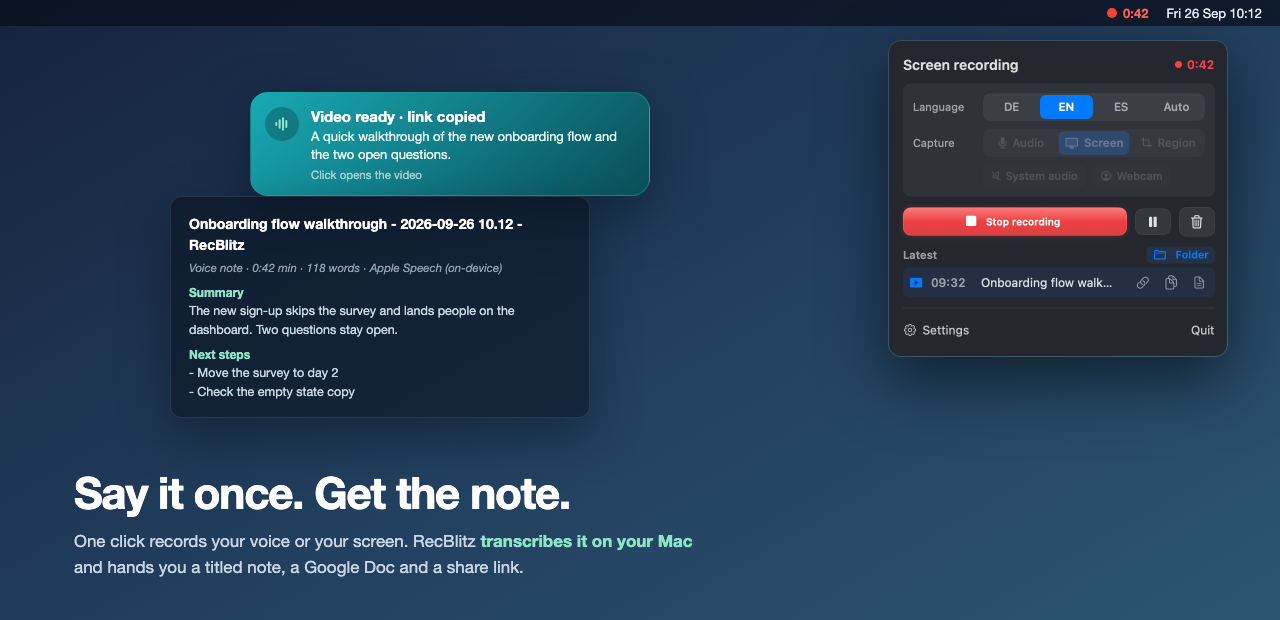
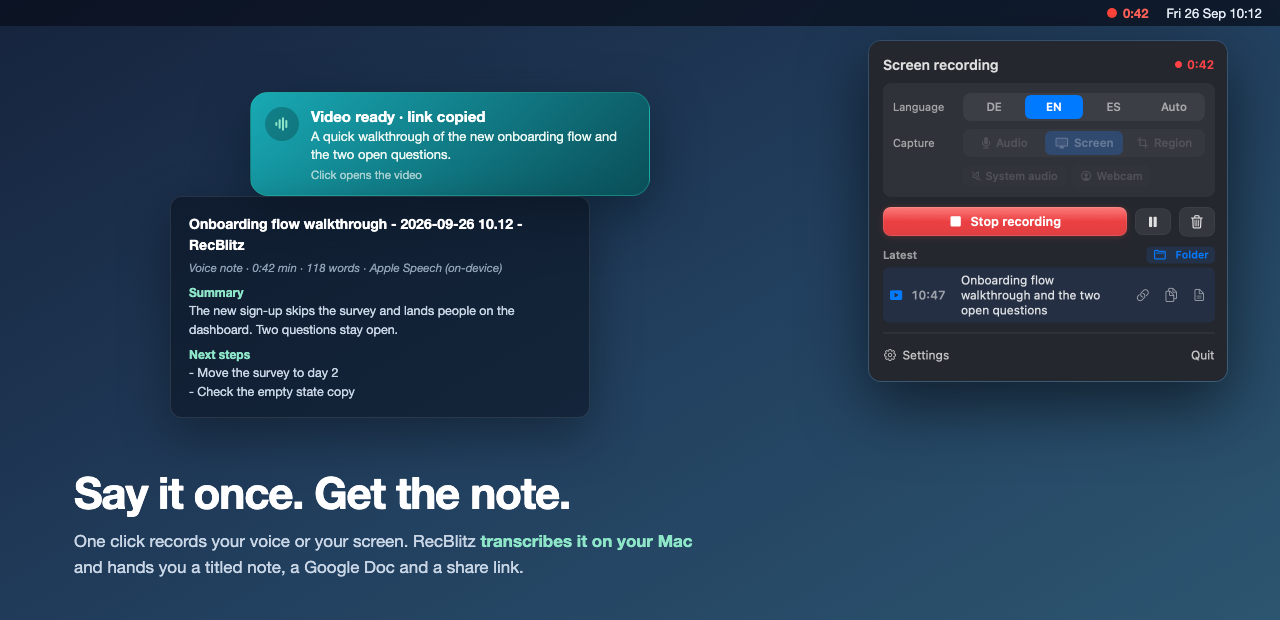
Panel 360 pt wide, no truncated labels or titles

Changed region(s): [[0.6562, 0.0613, 0.9688, 0.6435], [0.8125, 0.2145, 0.9062, 0.2452], [0.9062, 0.1532, 0.9375, 0.1839]]

diff --git a/Sources/RecBlitz/RecPanelView.swift b/Sources/RecBlitz/RecPanelView.swift
@@ -12,7 +12,7 @@ struct RecPanelView: View {
     @State private var displays: [CaptureDisplay] = []
     var onSize: (CGSize) -> Void
 
-    static let width: CGFloat = 340
+    static let width: CGFloat = 360
 
     /// Während Vorbereitung oder Aufnahme sind die Optionen gesperrt: ein
     /// Wechsel mitten in der Aufnahme hätte keine Wirkung mehr.
@@ -334,7 +334,7 @@ struct RecPanelView: View {
 /// Die letzte Aufnahme als Zeile, gebaut wie eine MeetingBlitz-Terminzeile:
 /// Symbol, Uhrzeit, Titel, rechts die Aktionen. Klick auf die Zeile öffnet das
 /// beste vorhandene Ergebnis (Video, Doc, Notiz).
-private struct LastRow: View {
+struct LastRow: View {
     let result: LastResult
     let transcript: String?
     @State private var hovering = false
@@ -344,6 +344,11 @@ private struct LastRow: View {
         f.locale = Locale(identifier: L.isDE ? "de_DE" : "en_US")
         f.dateFormat = Calendar.current.isDateInToday(result.date) ? "HH:mm" : (L.isDE ? "dd.MM." : "MMM d")
         return f.string(from: result.date)
+    }
+
+    static func displayTitle(_ raw: String) -> String {
+        raw.replacingOccurrences(of: #" - \d{4}-\d{2}-\d{2} \d{2}\.\d{2} - RecBlitz$"#,
+                                 with: "", options: .regularExpression)
     }
 
     private var markdownURL: URL? { result.markdownPath.map { URL(fileURLWithPath: $0) } }
@@ -360,10 +365,12 @@ private struct LastRow: View {
                 .font(.system(size: 12, weight: .medium).monospacedDigit())
                 .foregroundStyle(.secondary)
                 .frame(width: 42, alignment: .leading)
-            Text(result.title)
+            // Ohne den Anhang „ - 2026-09-26 10.29 - RecBlitz": die Uhrzeit steht
+            // schon links, und der Anhang frisst genau den Platz, der dem Titel
+            // fehlt. Zwei Zeilen statt „…" (Rückmeldung 26.09.).
+            Text(Self.displayTitle(result.title))
                 .font(.system(size: 12))
-                .lineLimit(1)
-                .truncationMode(.tail)
+                .fixedSize(horizontal: false, vertical: true)
             Spacer(minLength: 4)
             if let video = result.videoURL {
                 RowIconButton(icon: "link", help: video.isFileURL

diff --git a/Sources/RecBlitz/main.swift b/Sources/RecBlitz/main.swift
@@ -933,7 +933,8 @@ if cliArgs.count >= 3, cliArgs[1] == "--render-panel" {
         dummy.last = nil
         dummy.lastTranscript = nil
         if mode != "empty" {
-            dummy.last = LastResult(title: L.t("Ablauf für das neue Onboarding", "Onboarding flow walkthrough"),
+            dummy.last = LastResult(title: L.t("Ablauf für das neue Onboarding und die zwei offenen Fragen - 2026-09-26 10.29 - RecBlitz",
+                                                 "Onboarding flow walkthrough and the two open questions - 2026-09-26 10.29 - RecBlitz"),
                                     date: Date(), docURL: URL(string: "https://example.com/doc"),
                                     videoURL: mode == "idle" ? nil : URL(string: "https://example.com/video"),
                                     markdownPath: nil)
@@ -960,6 +961,8 @@ if cliArgs.count >= 2, cliArgs[1] == "--selftest" {
            "folderID aus Drive-Link")
     expect(ConfigStore.folderID(from: "  1AbC-d_E9 ") == "1AbC-d_E9", "folderID aus nackter ID")
     expect(ConfigStore.folderID(from: "") == "", "folderID leer")
+    expect(LastRow.displayTitle("Plan fürs Onboarding - 2026-09-26 10.29 - RecBlitz") == "Plan fürs Onboarding",
+           "Titel ohne Datumsanhang")
     let sample = LastResult(title: "T", date: Date(timeIntervalSince1970: 0),
                             docURL: URL(string: "https://example.com"), videoURL: nil, markdownPath: "/tmp/x.md")
     let roundTrip = (try? JSONEncoder().encode(sample)).flatMap { try? JSONDecoder().decode(LastResult.self, from: $0) }

diff --git a/docs/panel.html b/docs/panel.html
@@ -3,13 +3,13 @@
 <style>
   /* Nahaufnahme: das echte Panel im Ruhezustand und beim Hochladen. */
   * { margin:0; padding:0; box-sizing:border-box; }
-  body { width:900px; height:520px; display:flex; align-items:flex-start; justify-content:center; gap:40px; padding-top:56px;
+  body { width:900px; height:580px; display:flex; align-items:flex-start; justify-content:center; gap:40px; padding-top:56px;
     background: linear-gradient(150deg,#16233d 0%,#22405f 55%,#2c5570 100%);
     font: 400 13px -apple-system,"SF Pro Text",sans-serif; color:#c9d6e6; }
   figure { display:flex; flex-direction:column; align-items:center; gap:14px; }
-  .p { width:340px; border-radius:13px; overflow:hidden; border:.5px solid rgba(255,255,255,.10);
+  .p { width:360px; border-radius:13px; overflow:hidden; border:.5px solid rgba(255,255,255,.10);
     box-shadow:0 24px 64px rgba(0,0,0,.55); }
-  .p img { width:340px; display:block; }
+  .p img { width:360px; display:block; }
   figcaption { font: 600 11.5px ui-monospace,Menlo,monospace; letter-spacing:.12em; text-transform:uppercase; color:#2EC7A0; }
 </style>
 <figure><div class="p"><img src="raw/panel-idle.png"></div><figcaption>Ready</figcaption></figure>

diff --git a/docs/hero.html b/docs/hero.html
@@ -13,9 +13,9 @@
   .menubar .rec { display:flex; align-items:center; gap:6px; color:#ff6259; font-weight:600;
     font-variant-numeric:tabular-nums; }
   .menubar .rec i { width:10px; height:10px; border-radius:50%; background:#ff453a; display:block; }
-  .panel { position:absolute; right:52px; top:40px; width:340px; border-radius:13px; overflow:hidden;
+  .panel { position:absolute; right:52px; top:40px; width:360px; border-radius:13px; overflow:hidden;
     box-shadow:0 24px 64px rgba(0,0,0,.55); border:.5px solid rgba(255,255,255,.10); }
-  .panel img { width:340px; display:block; }
+  .panel img { width:360px; display:block; }
   .banner { position:absolute; left:250px; top:92px; width:400px; padding:14px 18px 14px 14px;
     border-radius:18px; display:flex; gap:12px; align-items:flex-start;
     background:linear-gradient(135deg,#18A9B4,#0A4E58); border:1px solid rgba(46,199,160,.35);

diff --git a/Sources/RecBlitz/Chrome.swift b/Sources/RecBlitz/Chrome.swift
@@ -31,10 +31,13 @@ struct PillSegment<ID: Hashable>: View {
                         if let icon = item.icon {
                             Image(systemName: icon).font(.system(size: 10.5, weight: .semibold))
                         }
+                        // Nie kürzen: „Bildschi…" sah kaputt aus (Rückmeldung
+                        // 26.09.). Das Wort behält seine volle Breite, die Felder
+                        // teilen sich den Rest.
                         Text(item.label)
                             .font(.system(size: 11.5, weight: on ? .semibold : .medium))
                             .lineLimit(1)
-                            .minimumScaleFactor(0.8)
+                            .fixedSize()
                     }
                     .frame(maxWidth: .infinity, minHeight: 24)
                     .padding(.horizontal, 3)

diff --git a/docs/index.html b/docs/index.html
@@ -366,7 +366,7 @@
 
 <section class="wrap">
   <div class="split">
-    <figure><img src="panel.png" alt="The menu bar panel, ready and while a video uploads" width="900" height="520"></figure>
+    <figure><img src="panel.png" alt="The menu bar panel, ready and while a video uploads" width="900" height="580"></figure>
     <div class="copy">
       <div class="eyebrow">The panel</div>
       <h2>Everything in one small window</h2>
